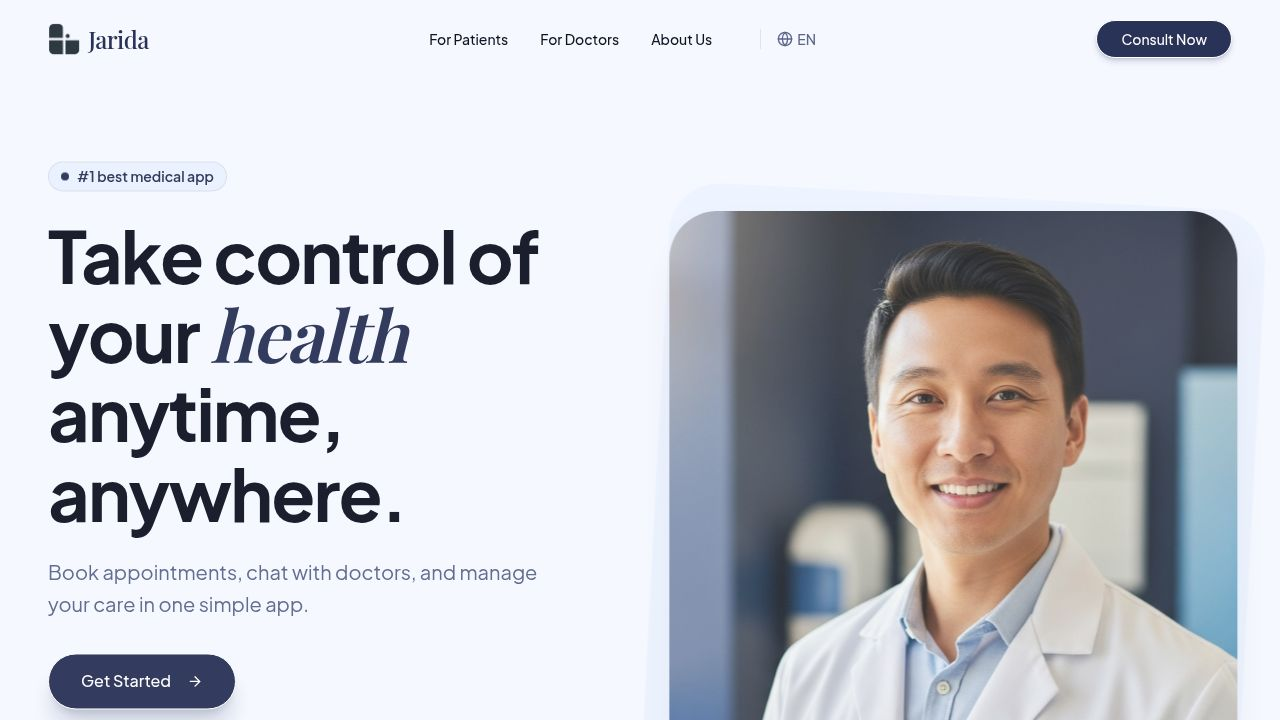
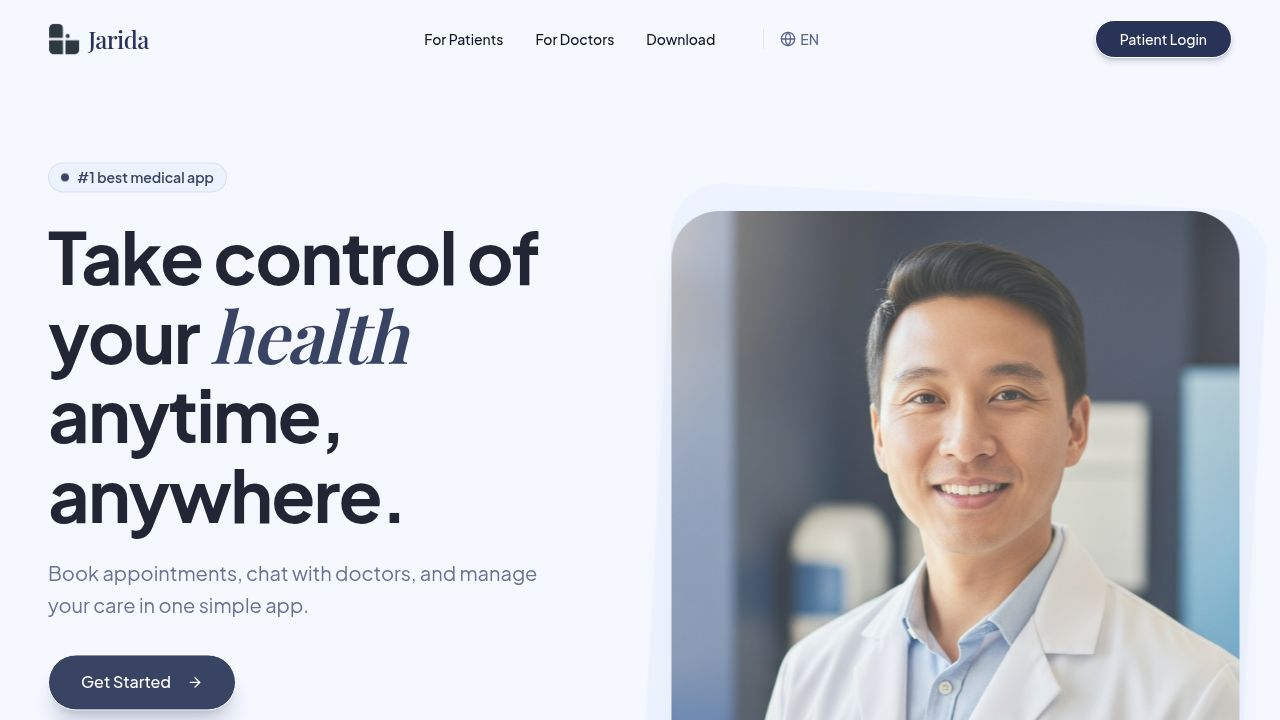
Add real Privacy Policy and Terms of Service pages (Task #3)
Original task: The footer linked Privacy Policy and Terms of Service to
placeholder anchors (href="#"). Replace them with real pages.

Changes:
- New shared `LegalLayout` component (artifacts/jarida/src/pages/legal-layout.tsx)
  rendering a branded header (logo + "Back to home"), title, last-updated date,
  intro, structured sections (paragraphs + bullets), and a support contact
  footer. Scrolls to top on mount.
- New `privacy.tsx` page with healthcare-appropriate Privacy Policy content
  (data collected, usage, sharing, security, rights, retention, etc.).
- New `terms.tsx` page with Terms of Service content (acceptance, services,
  emergency/medical disclaimers, account rules, acceptable use, liability, etc.).
- Registered `/privacy` and `/terms` routes in App.tsx (wouter).
- Replaced the two footer `href="#"` anchors in home.tsx with wouter `Link`s
  to the new routes.

Notes:
- Content is reasonable boilerplate tailored to Jarida (healthcare, patient/
  doctor connections); not legal advice. Contact email reuses the existing
  [email redacted] from the footer.
- Verified with tsc --noEmit (clean) and screenshots of both rendered pages.

Replit-Task-Id: 3c1c9295-acfa-4dcc-a4f2-b51720cd6b2d

diff --git a/artifacts/jarida/src/pages/legal-layout.tsx b/artifacts/jarida/src/pages/legal-layout.tsx
@@ -1,0 +1,98 @@
+import { useEffect } from "react";
+import { Link } from "wouter";
+import { ArrowLeft } from "lucide-react";
+
+import iconLogo from "@assets/jarida_logo_icon.png";
+
+export type LegalSection = {
+  heading: string;
+  paragraphs?: string[];
+  bullets?: string[];
+};
+
+export function LegalLayout({
+  title,
+  lastUpdated,
+  intro,
+  sections,
+}: {
+  title: string;
+  lastUpdated: string;
+  intro: string;
+  sections: LegalSection[];
+}) {
+  useEffect(() => {
+    window.scrollTo(0, 0);
+  }, []);
+
+  return (
+    <div className="min-h-screen bg-background font-sans text-foreground">
+      {/* HEADER */}
+      <header className="fixed top-0 inset-x-0 z-50 bg-white/80 backdrop-blur-md border-b border-border py-3 shadow-sm">
+        <div className="container mx-auto px-6 md:px-12 flex items-center justify-between">
+          <Link href="/" className="flex items-center gap-2 group">
+            <img src={iconLogo} alt="Jarida Icon" className="h-8 w-auto group-hover:scale-105 transition-transform" />
+            <span className="font-serif text-2xl font-medium tracking-tight text-primary">Jarida</span>
+          </Link>
+          <Link
+            href="/"
+            className="inline-flex items-center gap-2 text-sm font-medium text-muted-foreground hover:text-primary transition-colors"
+          >
+            <ArrowLeft className="w-4 h-4" />
+            Back to home
+          </Link>
+        </div>
+      </header>
+
+      {/* CONTENT */}
+      <main className="pt-32 pb-24">
+        <div className="container mx-auto px-6 md:px-12 max-w-3xl">
+          <div className="absolute inset-x-0 top-0 h-[40vh] bg-[radial-gradient(ellipse_at_top,var(--color-secondary)_0%,transparent_60%)] -z-10" />
+
+          <header className="mb-12">
+            <h1 className="text-4xl md:text-5xl font-bold tracking-tight mb-4">
+              {title}
+            </h1>
+            <p className="text-sm text-muted-foreground">Last updated: {lastUpdated}</p>
+            <p className="text-lg text-muted-foreground mt-6 leading-relaxed">{intro}</p>
+          </header>
+
+          <div className="space-y-10">
+            {sections.map((section, i) => (
+              <section key={i}>
+                <h2 className="text-2xl font-bold mb-4 font-serif">
+                  {section.heading}
+                </h2>
+                {section.paragraphs?.map((p, j) => (
+                  <p key={j} className="text-muted-foreground leading-relaxed mb-4">
+                    {p}
+                  </p>
+                ))}
+                {section.bullets && (
+                  <ul className="space-y-3 mt-2">
+                    {section.bullets.map((b, j) => (
+                      <li key={j} className="flex gap-3 text-muted-foreground leading-relaxed">
+                        <span className="mt-2.5 h-1.5 w-1.5 rounded-full bg-primary flex-shrink-0" />
+                        <span>{b}</span>
+                      </li>
+                    ))}
+                  </ul>
+                )}
+              </section>
+            ))}
+          </div>
+
+          <div className="mt-16 pt-8 border-t border-border">
+            <p className="text-muted-foreground">
+              Questions about this page? Reach us at{" "}
+              <a href="mailto:[email redacted]" className="text-primary font-medium hover:underline">
+                [email redacted]
+              </a>
+              .
+            </p>
+          </div>
+        </div>
+      </main>
+    </div>
+  );
+}

diff --git a/artifacts/jarida/src/pages/terms.tsx b/artifacts/jarida/src/pages/terms.tsx
@@ -1,0 +1,88 @@
+import { LegalLayout, type LegalSection } from "./legal-layout";
+
+const SECTIONS: LegalSection[] = [
+  {
+    heading: "1. Acceptance of these terms",
+    paragraphs: [
+      "These Terms of Service (\"Terms\") govern your access to and use of the Jarida Healthcare website and mobile applications (the \"Services\"). By creating an account or using the Services, you agree to these Terms. If you do not agree, please do not use the Services.",
+    ],
+  },
+  {
+    heading: "2. The Services",
+    paragraphs: [
+      "Jarida is a digital platform that connects patients with verified doctors so they can book appointments, chat with doctors, and manage medical records in one app. Jarida facilitates these connections but does not itself provide medical care.",
+    ],
+  },
+  {
+    heading: "3. Not for medical emergencies",
+    paragraphs: [
+      "The Services are not intended for emergencies. If you are experiencing a medical emergency, call your local emergency number or go to the nearest emergency facility immediately. Do not rely on the Services for urgent or life-threatening situations.",
+    ],
+  },
+  {
+    heading: "4. Medical disclaimer",
+    paragraphs: [
+      "Information provided through the Services, including consultations with doctors, is for your general healthcare and does not replace an in-person examination where one is needed. Always use your own judgment and consult a qualified professional about your specific circumstances. Decisions you make based on information from the Services are your responsibility.",
+    ],
+  },
+  {
+    heading: "5. Your account",
+    paragraphs: ["You are responsible for the information and security of your account."],
+    bullets: [
+      "Provide accurate, complete, and up-to-date information when registering.",
+      "Keep your login credentials confidential and do not share your account.",
+      "Notify us promptly of any unauthorized use of your account.",
+      "You must be of legal age to form a binding contract, or use the Services through an authorized parent or guardian.",
+    ],
+  },
+  {
+    heading: "6. Acceptable use",
+    paragraphs: ["When using the Services, you agree not to:"],
+    bullets: [
+      "Misuse, disrupt, or attempt to gain unauthorized access to the platform.",
+      "Provide false information or impersonate another person, patient, or provider.",
+      "Use the Services for any unlawful, harmful, or fraudulent purpose.",
+    ],
+  },
+  {
+    heading: "7. Doctors and third parties",
+    paragraphs: [
+      "Doctors available through Jarida are independent professionals responsible for the care they provide. While we verify providers on the platform, your relationship for medical care is with the treating doctor. We are not liable for the acts or omissions of independent providers.",
+    ],
+  },
+  {
+    heading: "8. Fees",
+    paragraphs: [
+      "Some features or consultations may be subject to fees, which will be disclosed to you before you incur them. You are responsible for any charges associated with your use of paid features.",
+    ],
+  },
+  {
+    heading: "9. Limitation of liability",
+    paragraphs: [
+      "To the fullest extent permitted by law, Jarida is not liable for indirect, incidental, or consequential damages arising from your use of the Services. The Services are provided on an \"as is\" and \"as available\" basis without warranties of any kind.",
+    ],
+  },
+  {
+    heading: "10. Changes and termination",
+    paragraphs: [
+      "We may update these Terms or modify, suspend, or discontinue parts of the Services at any time. We may suspend or terminate accounts that violate these Terms. Continued use of the Services after changes take effect constitutes acceptance of the updated Terms.",
+    ],
+  },
+  {
+    heading: "11. Contact",
+    paragraphs: [
+      "If you have questions about these Terms, please contact us at [email redacted].",
+    ],
+  },
+];
+
+export default function Terms() {
+  return (
+    <LegalLayout
+      title="Terms of Service"
+      lastUpdated="June 23, 2026"
+      intro="These terms set out the rules for using Jarida and the relationship between you, Jarida, and the doctors you connect with. Please read them carefully."
+      sections={SECTIONS}
+    />
+  );
+}

diff --git a/artifacts/jarida/src/pages/privacy.tsx b/artifacts/jarida/src/pages/privacy.tsx
@@ -1,0 +1,82 @@
+import { LegalLayout, type LegalSection } from "./legal-layout";
+
+const SECTIONS: LegalSection[] = [
+  {
+    heading: "1. Who we are",
+    paragraphs: [
+      "Jarida Healthcare (\"Jarida\", \"we\", \"us\") operates a digital healthcare platform that connects patients with verified doctors for appointments, consultations, and medical record management. This Privacy Policy explains how we collect, use, and protect your personal and health information when you use our website and mobile applications (the \"Services\").",
+    ],
+  },
+  {
+    heading: "2. Information we collect",
+    paragraphs: [
+      "We collect information you provide directly, information generated through your use of the Services, and limited information from your device.",
+    ],
+    bullets: [
+      "Account details such as your name, date of birth, email address, and phone number.",
+      "Health information you choose to share, including symptoms, medical history, test results, prescriptions, and consultation messages.",
+      "Appointment and booking details, including the doctors you connect with and visit reminders.",
+      "Technical data such as device type, app version, and usage activity that helps us keep the Services secure and reliable.",
+    ],
+  },
+  {
+    heading: "3. How we use your information",
+    paragraphs: ["We use your information only to deliver and improve healthcare services."],
+    bullets: [
+      "To connect you with verified doctors and facilitate appointments and online consultations.",
+      "To store and present your medical records and test results securely in one place.",
+      "To send reminders for visits, treatments, and medication.",
+      "To maintain the safety, security, and integrity of the platform and to comply with legal obligations.",
+    ],
+  },
+  {
+    heading: "4. How we share information",
+    paragraphs: [
+      "Your health information is shared only with the verified doctors and care providers you choose to interact with, and with service providers who help us operate the platform under strict confidentiality obligations. We do not sell your personal or health information. We may disclose information when required by law or to protect the safety of our users.",
+    ],
+  },
+  {
+    heading: "5. Data security",
+    paragraphs: [
+      "We apply technical and organizational safeguards designed to protect sensitive medical data, including encryption in transit, access controls, and ongoing monitoring. While no system can guarantee absolute security, we work continuously to protect your information.",
+    ],
+  },
+  {
+    heading: "6. Your rights",
+    paragraphs: ["Depending on where you live, you may have rights over your personal data."],
+    bullets: [
+      "Access, correct, or download a copy of your information.",
+      "Request deletion of your account and associated data, subject to legal record-keeping requirements.",
+      "Withdraw consent for optional processing at any time.",
+    ],
+  },
+  {
+    heading: "7. Data retention",
+    paragraphs: [
+      "We retain health and account information for as long as your account is active and as required to provide care continuity and meet applicable medical record-keeping and legal obligations. When information is no longer needed, we securely delete or anonymize it.",
+    ],
+  },
+  {
+    heading: "8. Children's privacy",
+    paragraphs: [
+      "The Services are intended for use by adults. Where a minor receives care, an authorized parent or legal guardian is responsible for managing the account and consenting to the processing of the minor's health information.",
+    ],
+  },
+  {
+    heading: "9. Changes to this policy",
+    paragraphs: [
+      "We may update this Privacy Policy from time to time. When we make material changes, we will update the date above and, where appropriate, notify you within the Services.",
+    ],
+  },
+];
+
+export default function Privacy() {
+  return (
+    <LegalLayout
+      title="Privacy Policy"
+      lastUpdated="June 23, 2026"
+      intro="Your health data is sensitive, and protecting it is central to how Jarida works. This policy explains what we collect, why, and the choices you have."
+      sections={SECTIONS}
+    />
+  );
+}

diff --git a/artifacts/jarida/src/App.tsx b/artifacts/jarida/src/App.tsx
@@ -4,6 +4,8 @@ import { Toaster } from "@/components/ui/toaster";
 import { TooltipProvider } from "@/components/ui/tooltip";
 import NotFound from "@/pages/not-found";
 import Home from "@/pages/home";
+import Privacy from "@/pages/privacy";
+import Terms from "@/pages/terms";
 
 const queryClient = new QueryClient();
 
@@ -11,6 +13,8 @@ function Router() {
   return (
     <Switch>
       <Route path="/" component={Home} />
+      <Route path="/privacy" component={Privacy} />
+      <Route path="/terms" component={Terms} />
       <Route component={NotFound} />
     </Switch>
   );

diff --git a/artifacts/jarida/src/pages/home.tsx b/artifacts/jarida/src/pages/home.tsx
@@ -371,8 +371,8 @@ export default function Home() {
           <div className="border-t border-white/10 pt-8 flex flex-col md:flex-row items-center justify-between gap-4 text-white/40 text-sm">
             <p>&copy; {new Date().getFullYear()} Jarida Healthcare. All rights reserved.</p>
             <div className="flex gap-6">
-              <a href="#" className="hover:text-white transition-colors">Privacy Policy</a>
-              <a href="#" className="hover:text-white transition-colors">Terms of Service</a>
+              <Link href="/privacy" className="hover:text-white transition-colors">Privacy Policy</Link>
+              <Link href="/terms" className="hover:text-white transition-colors">Terms of Service</Link>
             </div>
           </div>
         </div>